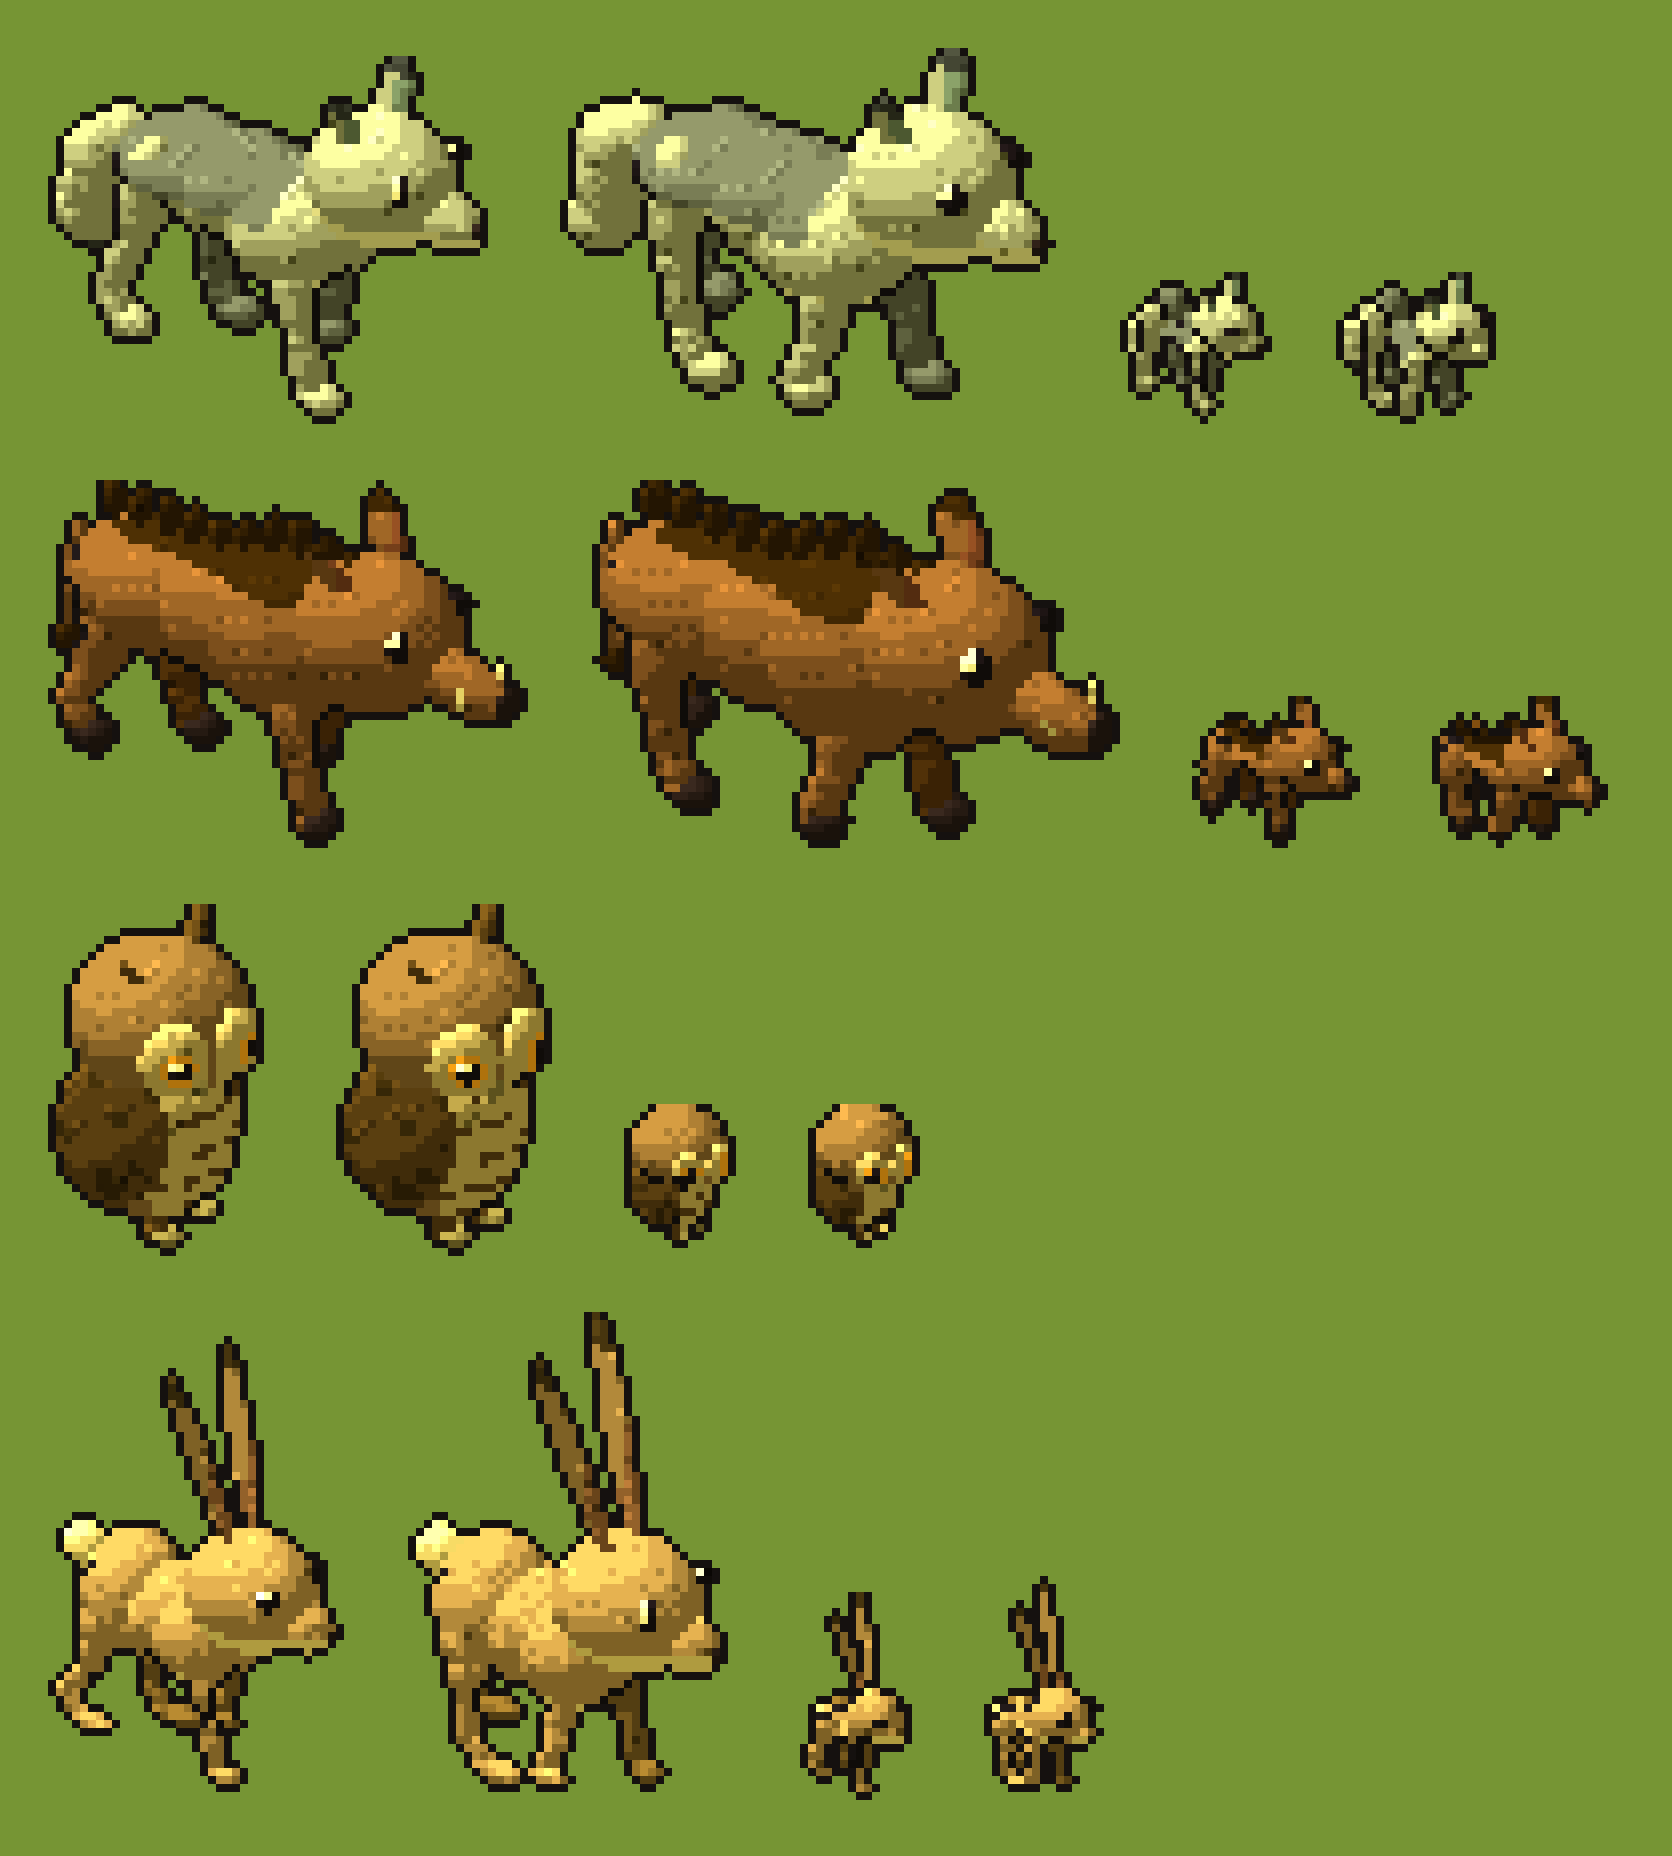
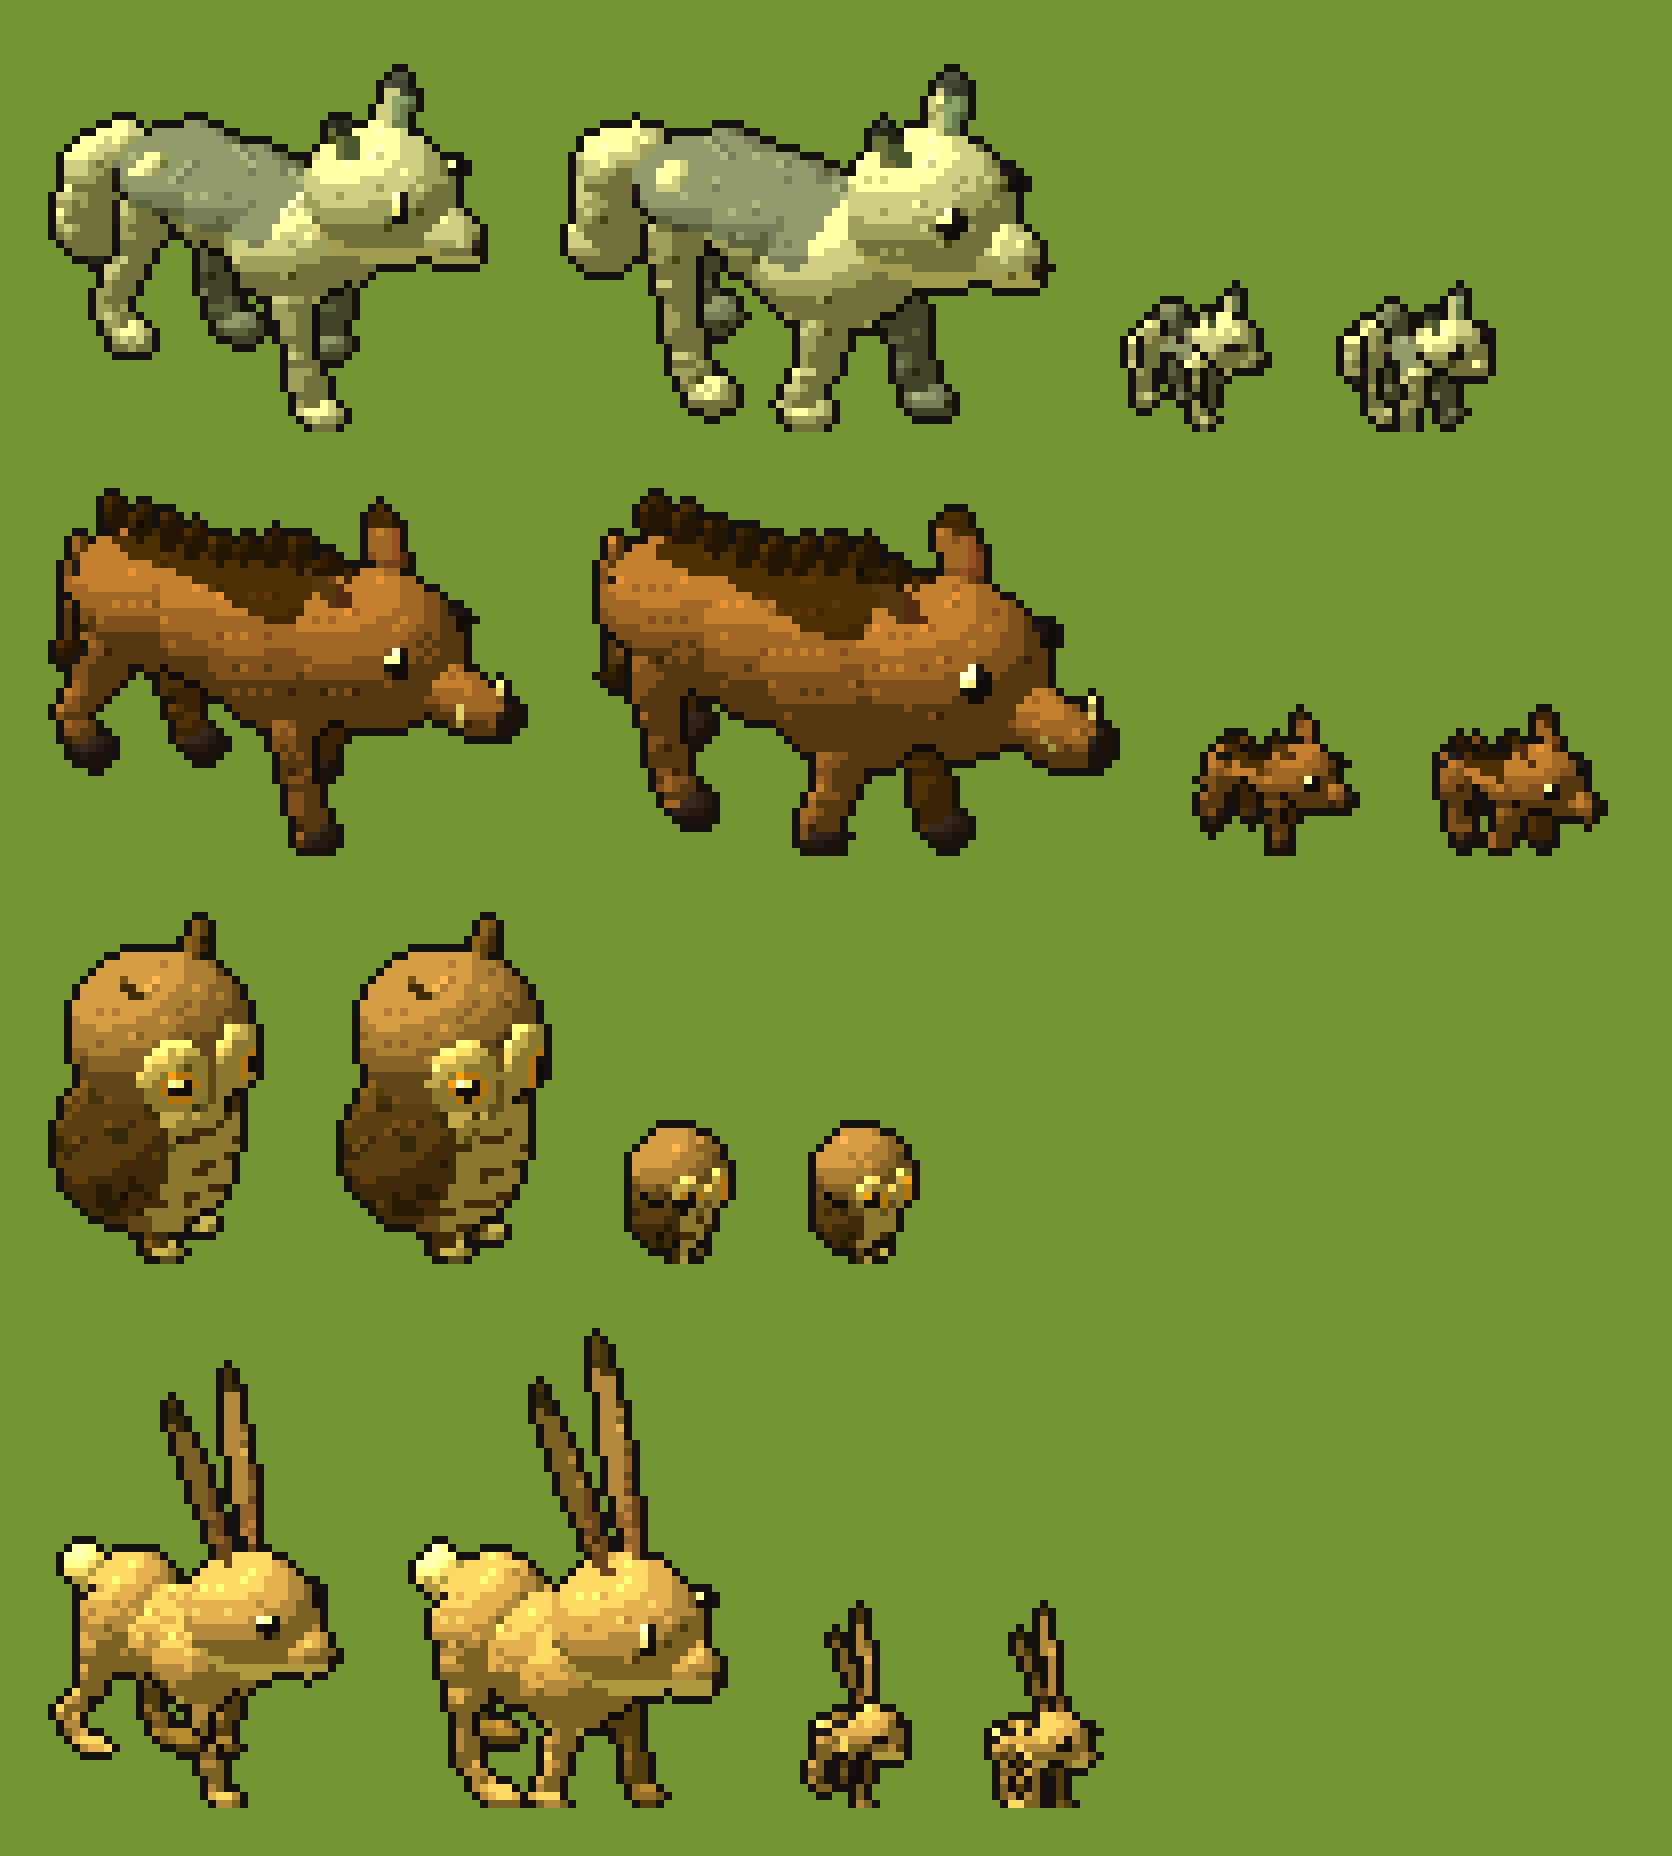
Art pass: 3D sprites stand on their bottom row
The renderer left a padding row under the feet, which failed the
standing checks (24 of them) on b500387; empty rows under the lowest
pixels are now dropped. node art/check.mjs passes.

Claude-Session: https://claude.ai/code/session_01FVGKHvaavDn5xGsWtRTBaz

diff --git a/tools/art-lab/dist/witch-art-lab.html b/tools/art-lab/dist/witch-art-lab.html
@@ -1682,6 +1682,12 @@ function render(model, { height, yaw = .6, pitch = .52, lineGap = .14, outlineGr
     const up = y > 0 && sp.m[i - W] === M.EYE, left = x > 0 && sp.m[i - 1] === M.EYE, more = x + 1 < W && sp.m[i + 1] === M.EYE && y + 1 < H && sp.m[i + W] === M.EYE; // only eyes 2 x 2 or bigger
     if (!up && !left && more) sp.m[i] = M.GLINT;
   }
+  // stand on the bottom row: drop the empty rows under the lowest pixels
+  let low = -1; for (let y = H - 1; y >= 0 && low < 0; y--) for (let x = 0; x < W; x++) if (sp.m[y * W + x]) { low = y; break; }
+  if (low >= 0 && low < H - 1) {
+    const d = H - 1 - low;
+    for (let y = H - 1; y >= 0; y--) for (let x = 0; x < W; x++) { const i = y * W + x, j = (y - d) * W + x, ok = y - d >= 0; sp.m[i] = ok ? sp.m[j] : 0; sp.g[i] = ok ? sp.g[j] : 0; for (let k = 0; k < 3; k++) sp.n[i * 3 + k] = ok ? sp.n[j * 3 + k] : 0; }
+  }
   return { sp, s, toScreen: p => { const w = toWorld(p); return [(dot(w, R) - X0) * s + 1, (U1 - dot(w, U)) * s]; } };
 }
 

diff --git a/art/model3d.js b/art/model3d.js
@@ -113,6 +113,12 @@ export function render(model, { height, yaw = .6, pitch = .52, lineGap = .14, ou
     const up = y > 0 && sp.m[i - W] === M.EYE, left = x > 0 && sp.m[i - 1] === M.EYE, more = x + 1 < W && sp.m[i + 1] === M.EYE && y + 1 < H && sp.m[i + W] === M.EYE; // only eyes 2 x 2 or bigger
     if (!up && !left && more) sp.m[i] = M.GLINT;
   }
+  // stand on the bottom row: drop the empty rows under the lowest pixels
+  let low = -1; for (let y = H - 1; y >= 0 && low < 0; y--) for (let x = 0; x < W; x++) if (sp.m[y * W + x]) { low = y; break; }
+  if (low >= 0 && low < H - 1) {
+    const d = H - 1 - low;
+    for (let y = H - 1; y >= 0; y--) for (let x = 0; x < W; x++) { const i = y * W + x, j = (y - d) * W + x, ok = y - d >= 0; sp.m[i] = ok ? sp.m[j] : 0; sp.g[i] = ok ? sp.g[j] : 0; for (let k = 0; k < 3; k++) sp.n[i * 3 + k] = ok ? sp.n[j * 3 + k] : 0; }
+  }
   return { sp, s, toScreen: p => { const w = toWorld(p); return [(dot(w, R) - X0) * s + 1, (U1 - dot(w, U)) * s]; } };
 }
 
